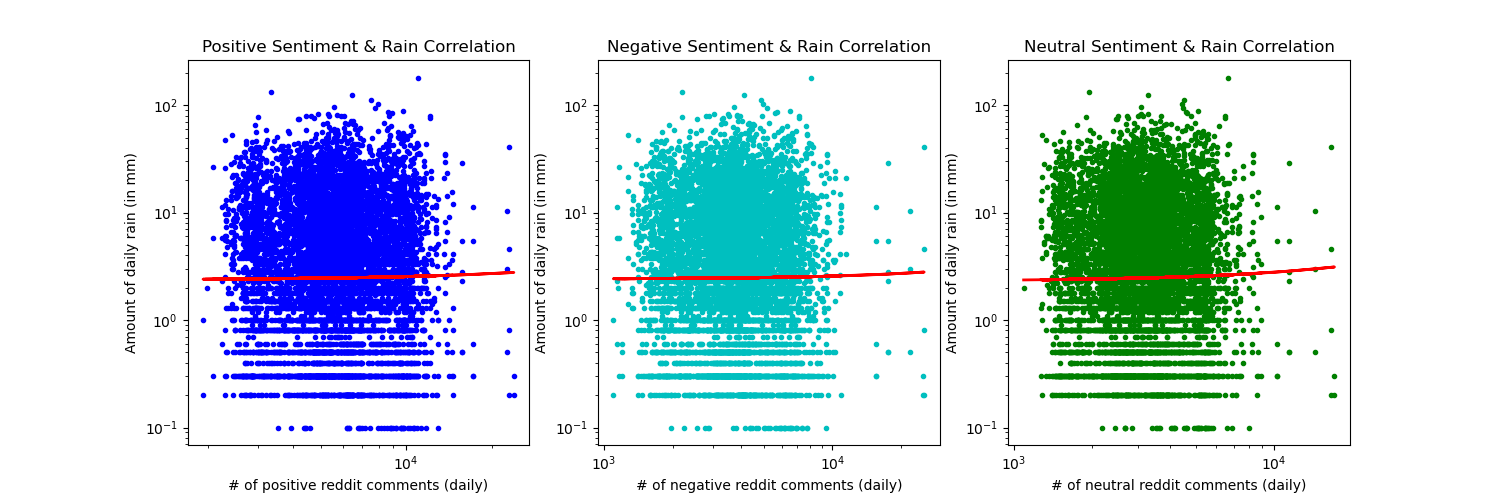
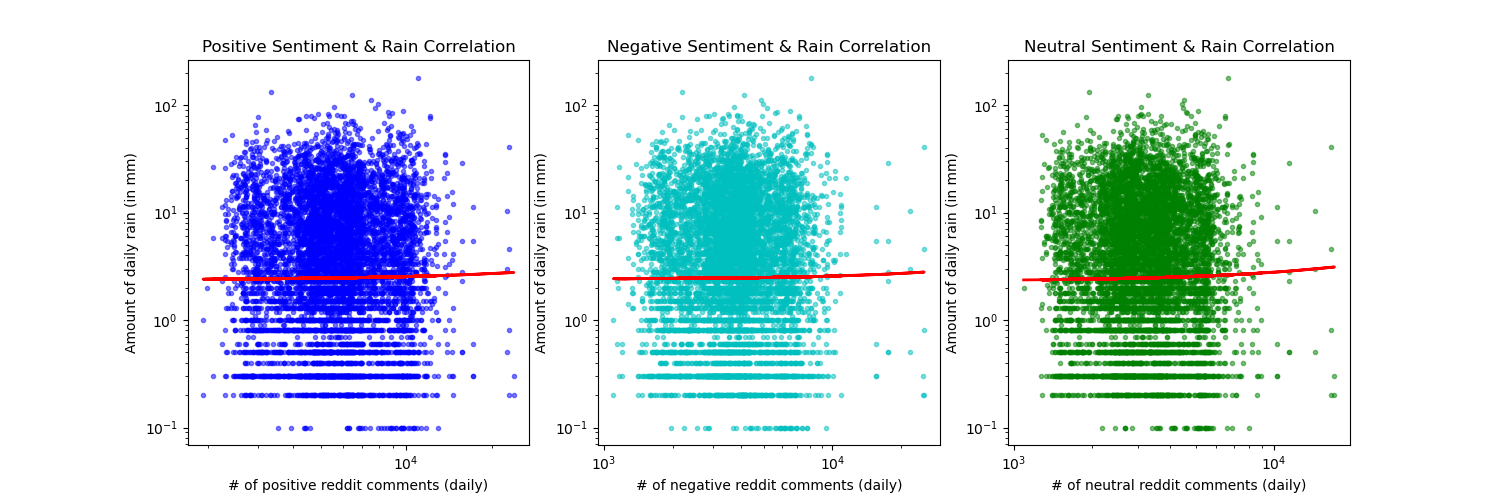
fixes for analysis files

diff --git a/rain_analysis.py b/rain_analysis.py
@@ -60,7 +60,7 @@ def main():
     reddit_sample_filepath = 'sample_dataset/reddit_output/part-*'
     # print(reddit_path, weather_path)
 
-    if argv[1] == 'whole':
+    if sys.argv[1] == 'whole':
         reddit_data = spark.read.json(reddit_path, schema=comments_schema)
         weather_data = spark.read.csv(weather_path, schema=weather_schema)
     else:
@@ -128,8 +128,8 @@ def main():
     plt.xlabel("# of positive reddit comments (daily)")
     plt.ylabel("Amount of daily rain (in mm)")
     plt.title("Positive Sentiment & Rain Correlation")
-    # plt.semilogx()
-    # plt.semilogy()
+    plt.semilogx()
+    plt.semilogy()
 
 
     # Plot 2
@@ -139,8 +139,8 @@ def main():
     plt.xlabel("# of negative reddit comments (daily)")
     plt.ylabel("Amount of daily rain (in mm)")
     plt.title("Negative Sentiment & Rain Correlation")
-    # plt.semilogx()
-    # plt.semilogy()
+    plt.semilogx()
+    plt.semilogy()
 
     # Plot 3
     plt.subplot(1,3,3)
@@ -149,8 +149,8 @@ def main():
     plt.xlabel("# of neutral reddit comments (daily)")
     plt.ylabel("Amount of daily rain (in mm)")
     plt.title("Neutral Sentiment & Rain Correlation")
-    # plt.semilogx()
-    # plt.semilogy()
+    plt.semilogx()
+    plt.semilogy()
 
 
     # plt.legend(['positive','negative','neutral'])
@@ -231,6 +231,6 @@ def main():
     
 
 if __name__=='__main__':
-    # city = sys.argv[1]
+    # dataset = sys.argv[1]
     # out_directory = sys.argv[2]
     main()

diff --git a/snow_analysis.py b/snow_analysis.py
@@ -60,7 +60,7 @@ def main():
     reddit_sample_filepath = 'sample_dataset/reddit_output/part-*'
     # print(reddit_path)
 
-    if argv[1] == 'whole':
+    if sys.argv[1] == 'whole':
         reddit_data = spark.read.json(reddit_path, schema=comments_schema)
         weather_data = spark.read.csv(weather_path, schema=weather_schema)
     else:
